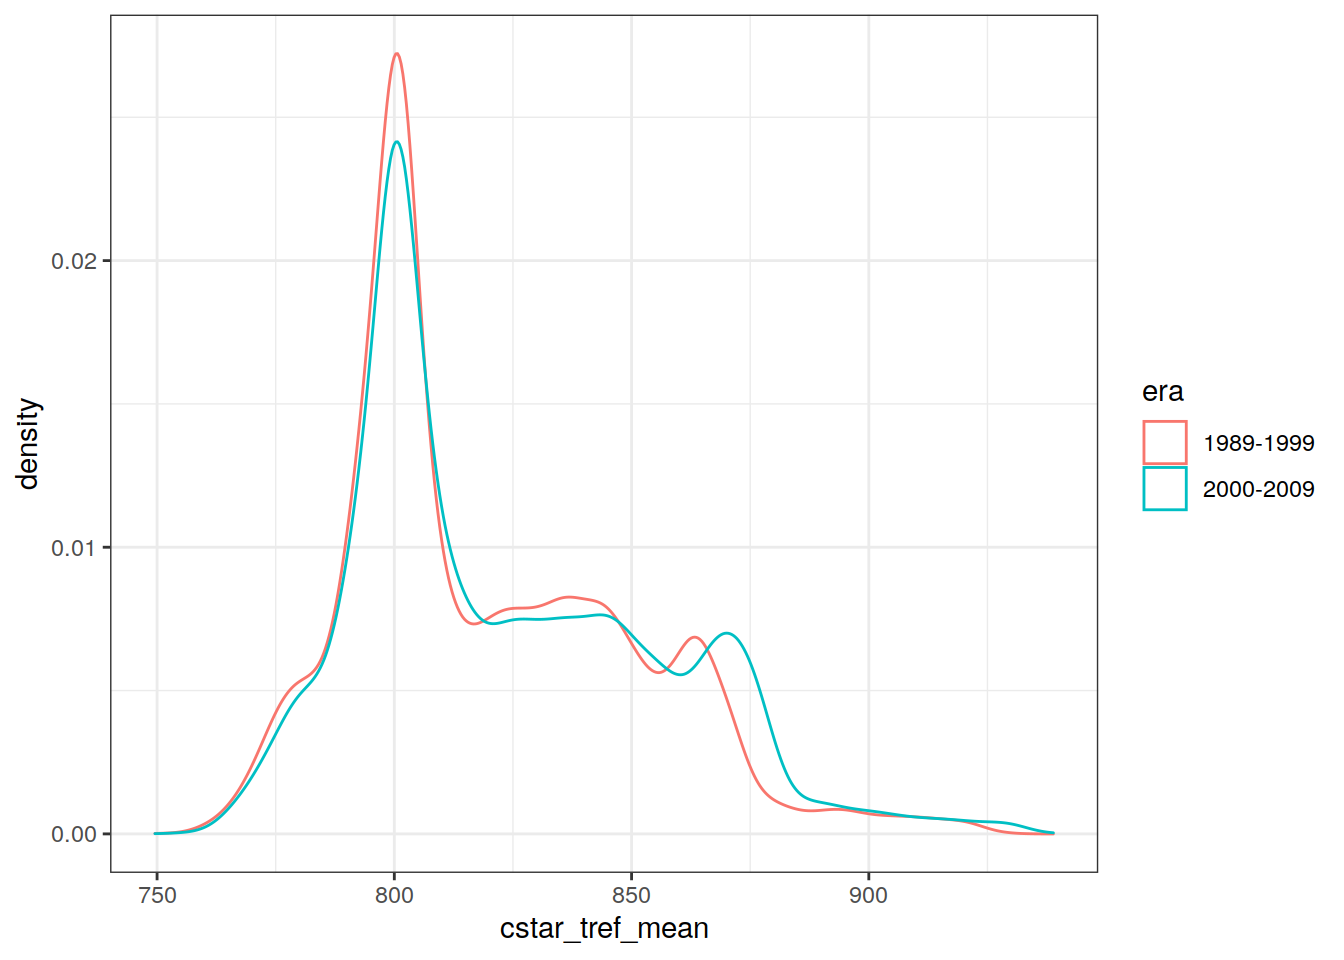
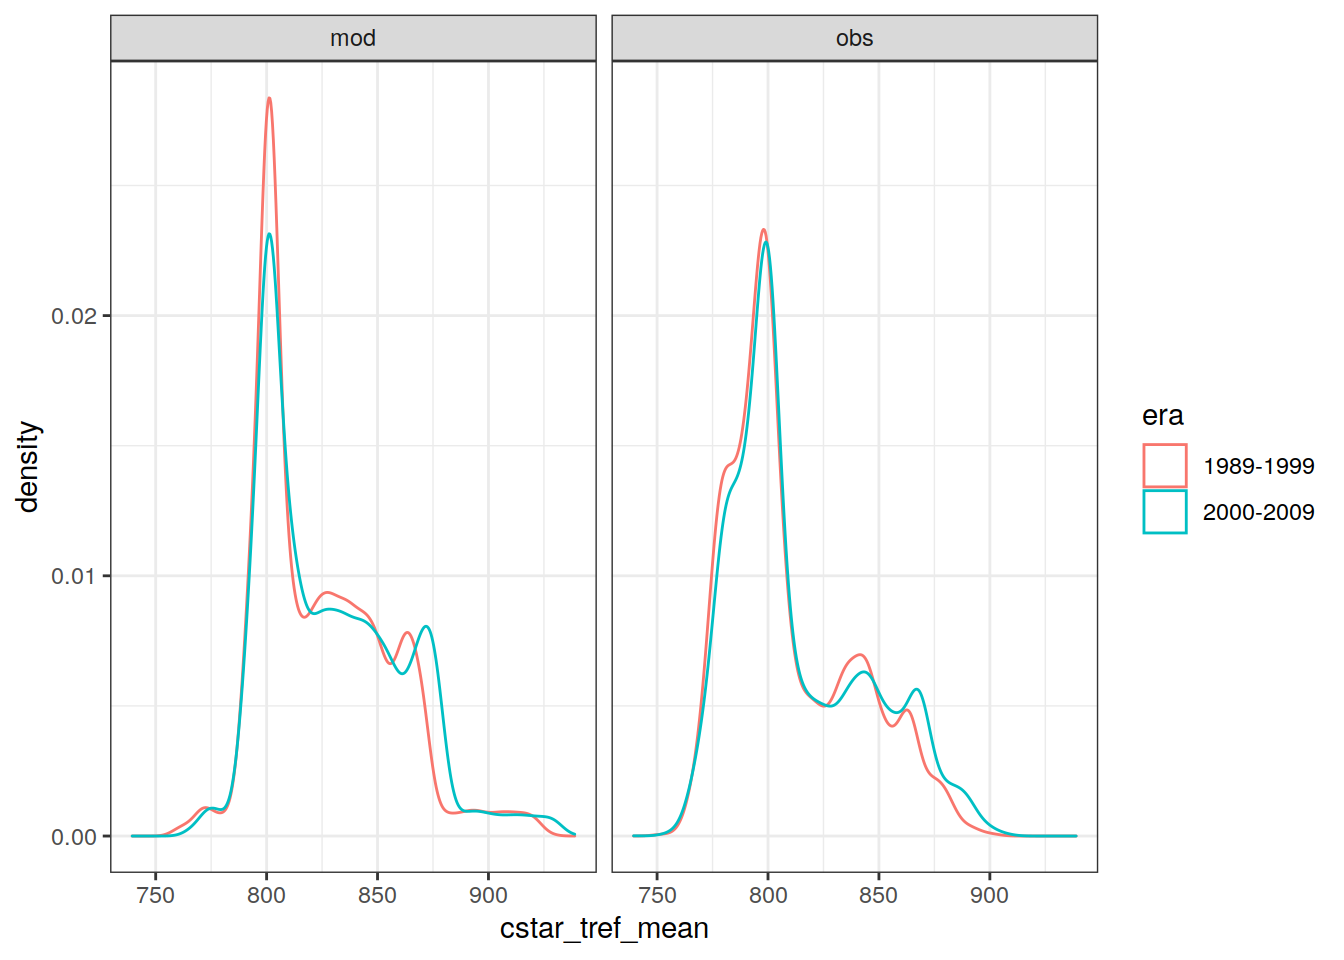
Build site.

diff --git a/docs/mapping_target_variable.html b/docs/mapping_target_variable.html
@@ -462,7 +462,7 @@ div.tocify {
 
 <h1 class="title toc-ignore">Mapping target variable</h1>
 <h4 class="author">Jens Daniel Müller</h4>
-<h4 class="date">15 June, 2022</h4>
+<h4 class="date">16 June, 2022</h4>
 
 </div>
 
@@ -487,7 +487,7 @@ div.tocify {
 <div class="tab-content">
 <div id="summary" class="tab-pane fade in active">
 <p>
-<strong>Last updated:</strong> 2022-06-15
+<strong>Last updated:</strong> 2022-06-16
 </p>
 <p>
 <strong>Checks:</strong> <span class="glyphicon glyphicon-ok text-success" aria-hidden="true"></span> 7 <span class="glyphicon glyphicon-exclamation-sign text-danger" aria-hidden="true"></span> 0
@@ -578,16 +578,16 @@ This reproducible <a href="https://rmarkdown.rstudio.com">R Markdown</a> analysi
 <div class="panel panel-default">
 <div class="panel-heading">
 <p class="panel-title">
-<a data-toggle="collapse" data-parent="#workflowr-checks" href="#strongRepositoryversionstrongahrefhttpsgithubcomjensdanielmuelleremlrobsvXXXtree370ce726300e922385514fabe373e14d004d46c2targetblank370ce72a"> <span class="glyphicon glyphicon-ok text-success" aria-hidden="true"></span> <strong>Repository version:</strong> <a href="https://github.com/jens-daniel-mueller/emlr_obs_v_XXX/tree/370ce726300e922385514fabe373e14d004d46c2" target="_blank">370ce72</a> </a>
+<a data-toggle="collapse" data-parent="#workflowr-checks" href="#strongRepositoryversionstrongahrefhttpsgithubcomjensdanielmuelleremlrobsvXXXtree5765ae4b62e664dd13551ef473d496b4ccc2008dtargetblank5765ae4a"> <span class="glyphicon glyphicon-ok text-success" aria-hidden="true"></span> <strong>Repository version:</strong> <a href="https://github.com/jens-daniel-mueller/emlr_obs_v_XXX/tree/5765ae4b62e664dd13551ef473d496b4ccc2008d" target="_blank">5765ae4</a> </a>
 </p>
 </div>
[2 lines of base64/hex data omitted]
 <div class="panel-body">
 <p>
 Great! You are using Git for version control. Tracking code development and connecting the code version to the results is critical for reproducibility.
 </p>
 <p>
-The results in this page were generated with repository version <a href="https://github.com/jens-daniel-mueller/emlr_obs_v_XXX/tree/370ce726300e922385514fabe373e14d004d46c2" target="_blank">370ce72</a>. See the <em>Past versions</em> tab to see a history of the changes made to the R Markdown and HTML files.
+The results in this page were generated with repository version <a href="https://github.com/jens-daniel-mueller/emlr_obs_v_XXX/tree/5765ae4b62e664dd13551ef473d496b4ccc2008d" target="_blank">5765ae4</a>. See the <em>Past versions</em> tab to see a history of the changes made to the R Markdown and HTML files.
 </p>
 <p>
 Note that you need to be careful to ensure that all relevant files for the analysis have been committed to Git prior to generating the results (you can use <code>wflow_publish</code> or <code>wflow_git_commit</code>). workflowr only checks the R Markdown file, but you know if there are other scripts or data files that it depends on. Below is the status of the Git repository when the results were generated:
@@ -596,13 +596,6 @@ Note that you need to be careful to ensure that all relevant files for the analy
 Ignored files:
     Ignored:    .Rhistory
     Ignored:    .Rproj.user/
-
-Unstaged changes:
-    Modified:   analysis/_site.yml
-    Modified:   code/Workflowr_project_managment.R
-    Modified:   code/previous_script_versions/back_up_eras_removal_eMLR_model_fitting.Rmd
-    Deleted:    code/previous_script_versions/mapping_target_variable.Rmd
-    Modified:   data/auxillary/params_local.rds
 
 </code></pre>
 <p>
@@ -641,6 +634,40 @@ Message
 </tr>
 </thead>
 <tbody>
+<tr>
+<td>
+Rmd
+</td>
+<td>
+<a href="https://github.com/jens-daniel-mueller/emlr_obs_v_XXX/blob/5765ae4b62e664dd13551ef473d496b4ccc2008d/analysis/mapping_target_variable.Rmd" target="_blank">5765ae4</a>
+</td>
+<td>
+jens-daniel-mueller
+</td>
+<td>
+2022-06-16
+</td>
+<td>
+distuiguished data source
+</td>
+</tr>
+<tr>
+<td>
+html
+</td>
+<td>
+<a href="https://rawcdn.githack.com/jens-daniel-mueller/emlr_obs_v_XXX/0c2ca93b5fe65371db29ee6c077103e9ec836f01/docs/mapping_target_variable.html" target="_blank">0c2ca93</a>
+</td>
+<td>
+jens-daniel-mueller
+</td>
+<td>
+2022-06-15
+</td>
+<td>
+Build site.
+</td>
+</tr>
 <tr>
 <td>
 Rmd
@@ -1525,7 +1552,8 @@ rm(predictors, lm_best_target)</code></pre>
 <pre class="r"><code>target &lt;- b_target_model(target)
 
 target &lt;- target %&gt;%
-  select(lon,
+  select(data_source,
+         lon,
          lat,
          depth,
          era,
@@ -1545,7 +1573,7 @@ rm(target)</code></pre>
 <h2><span class="header-section-number">4.3</span> Zonal mean sections</h2>
 <p>For each basin and era combination, the zonal mean of the target variable is calculated. Likewise, sd is calculated for the averaging of the mean basin fields.</p>
 <pre class="r"><code>target_average_zonal &lt;- target_average %&gt;%
-  group_by(era) %&gt;%
+  group_by(data_source, era) %&gt;%
   nest() %&gt;%
   mutate(zonal = map(.x = data, ~m_zonal_mean_sd(.x))) %&gt;%
   select(-data) %&gt;%
@@ -1555,12 +1583,50 @@ target_average_zonal &lt;- m_cut_gamma(target_average_zonal, &quot;gamma_mean&qu
 
 target_average_zonal %&gt;%
   ggplot(aes_string(paste0(params_local$MLR_target, &quot;_mean&quot;), col = &quot;era&quot;)) +
-  geom_density()</code></pre>
+  geom_density() +
+  facet_grid(. ~ data_source)</code></pre>
 <p><img src="figure/mapping_target_variable.Rmd/Calculate_target_mean_sections-1.png" width="672" style="display: block; margin: auto;" /></p>
+<p>
+<button type="button" class="btn btn-default btn-xs btn-workflowr btn-workflowr-fig" data-toggle="collapse" data-target="#fig-Calculate_target_mean_sections-1">
+Past versions of Calculate_target_mean_sections-1.png
+</button>
+</p>
+<div id="fig-Calculate_target_mean_sections-1" class="collapse">
+<div class="table-responsive">
+<table class="table table-condensed table-hover">
+<thead>
+<tr>
+<th>
+Version
+</th>
+<th>
+Author
+</th>
+<th>
+Date
+</th>
+</tr>
+</thead>
+<tbody>
+<tr>
+<td>
+<a href="https://github.com/jens-daniel-mueller/emlr_obs_v_XXX/blob/0c2ca93b5fe65371db29ee6c077103e9ec836f01/docs/figure/mapping_target_variable.Rmd/Calculate_target_mean_sections-1.png" target="_blank">0c2ca93</a>
+</td>
+<td>
+jens-daniel-mueller
+</td>
+<td>
+2022-06-15
+</td>
+</tr>
+</tbody>
+</table>
+</div>
+</div>
 <pre class="r"><code>target_average_zonal %&gt;%
-  group_by(basin_AIP, era) %&gt;%
+  group_by(basin_AIP, data_source, era) %&gt;%
   group_split() %&gt;%
-  # head(1) %&gt;%
+  head(1) %&gt;%
   map(
     ~ p_section_zonal_continous_depth(
       df = .x,
@@ -1569,6 +1635,8 @@ target_average_zonal %&gt;%
       plot_slabs = &quot;n&quot;,
       subtitle_text = paste(
         &quot;data_source: &quot;,
+        unique(.x$data_source),
+        &quot;| era: &quot;,
         unique(.x$era),
         &quot;| basin:&quot;,
         unique(.x$basin_AIP)
@@ -1577,21 +1645,43 @@ target_average_zonal %&gt;%
   )</code></pre>
 <pre><code>[[1]]</code></pre>
 <p><img src="figure/mapping_target_variable.Rmd/Calculate_target_mean_sections-2.png" width="672" style="display: block; margin: auto;" /></p>
-<pre><code>
-[[2]]</code></pre>
-<p><img src="figure/mapping_target_variable.Rmd/Calculate_target_mean_sections-3.png" width="672" style="display: block; margin: auto;" /></p>
-<pre><code>
-[[3]]</code></pre>
-<p><img src="figure/mapping_target_variable.Rmd/Calculate_target_mean_sections-4.png" width="672" style="display: block; margin: auto;" /></p>
-<pre><code>
-[[4]]</code></pre>
-<p><img src="figure/mapping_target_variable.Rmd/Calculate_target_mean_sections-5.png" width="672" style="display: block; margin: auto;" /></p>
-<pre><code>
-[[5]]</code></pre>
-<p><img src="figure/mapping_target_variable.Rmd/Calculate_target_mean_sections-6.png" width="672" style="display: block; margin: auto;" /></p>
-<pre><code>
-[[6]]</code></pre>
-<p><img src="figure/mapping_target_variable.Rmd/Calculate_target_mean_sections-7.png" width="672" style="display: block; margin: auto;" /></p>
+<p>
+<button type="button" class="btn btn-default btn-xs btn-workflowr btn-workflowr-fig" data-toggle="collapse" data-target="#fig-Calculate_target_mean_sections-2">
+Past versions of Calculate_target_mean_sections-2.png
+</button>
+</p>
+<div id="fig-Calculate_target_mean_sections-2" class="collapse">
+<div class="table-responsive">
+<table class="table table-condensed table-hover">
+<thead>
+<tr>
+<th>
+Version
+</th>
+<th>
+Author
+</th>
+<th>
+Date
+</th>
+</tr>
+</thead>
+<tbody>
+<tr>
+<td>
+<a href="https://github.com/jens-daniel-mueller/emlr_obs_v_XXX/blob/0c2ca93b5fe65371db29ee6c077103e9ec836f01/docs/figure/mapping_target_variable.Rmd/Calculate_target_mean_sections-2.png" target="_blank">0c2ca93</a>
+</td>
+<td>
+jens-daniel-mueller
+</td>
+<td>
+2022-06-15
+</td>
+</tr>
+</tbody>
+</table>
+</div>
+</div>
 </div>
 </div>
 <div id="write-csv" class="section level1" number="5">
